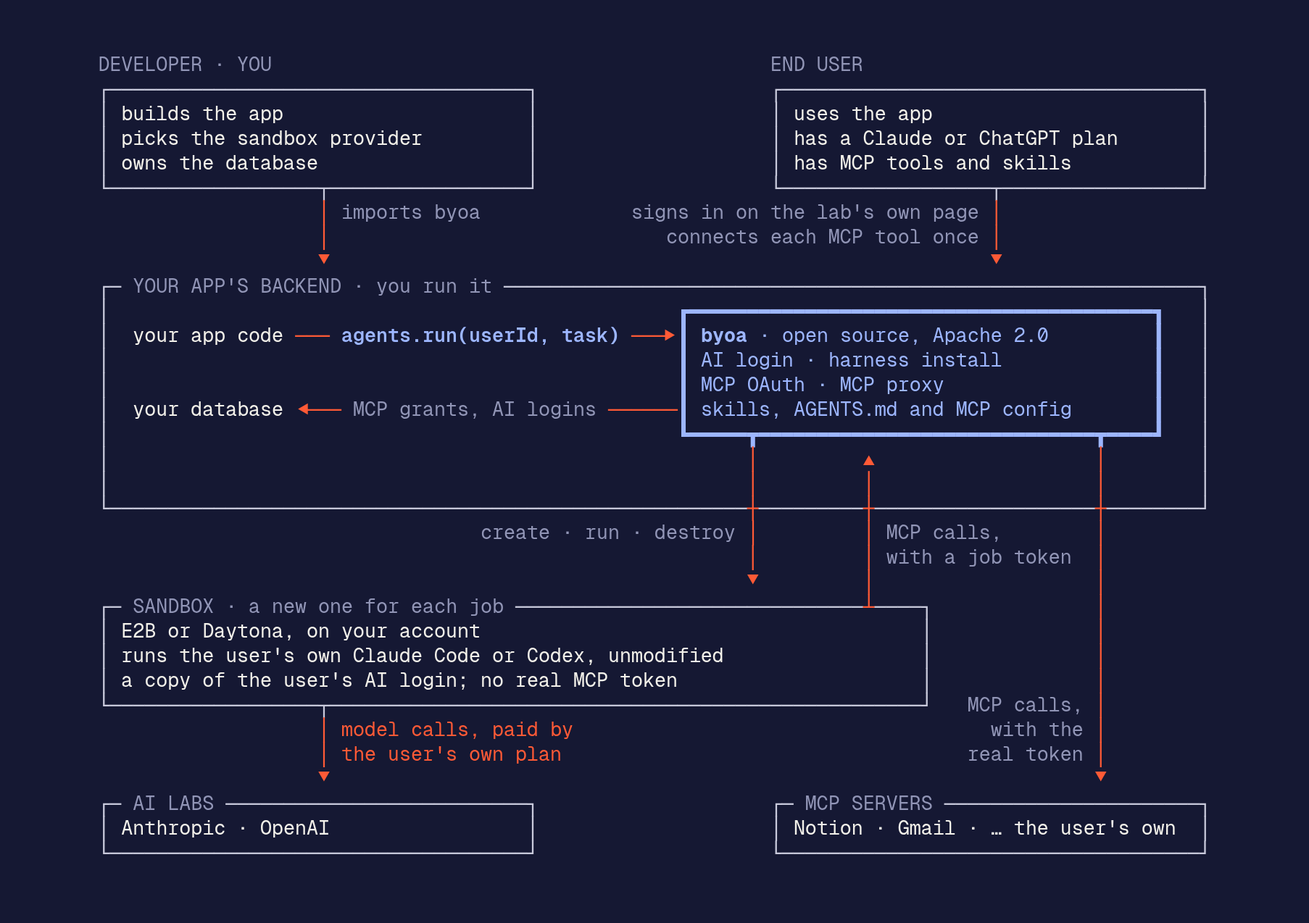
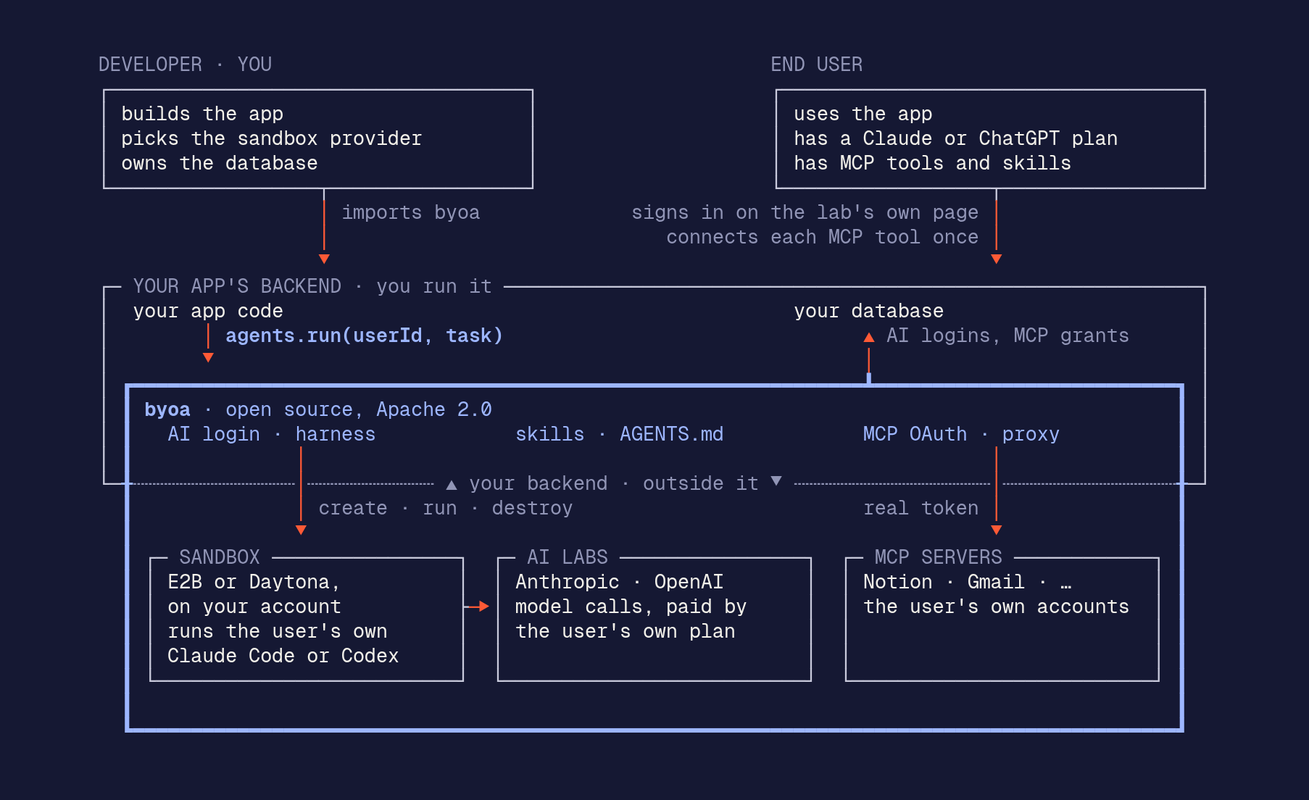
Who brings what: byoa's box encloses the sandbox, the AI labs and the MCP servers
The diagram now draws what byoa abstracts inside byoa's blue box. The bottom edge of the app's backend runs
through that box: byoa's own parts (AI login, harness, skills and config, MCP OAuth and proxy) sit above it,
in the backend, and the sandbox at E2B or Daytona, the AI labs and the user's MCP servers sit below it,
outside the backend, driven by byoa. The site, the README's text copy and its who-light/who-dark images
change together; nothing else on the page changes.

Amp-Thread-ID: https://ampcode.com/threads/T-01a2032a-9ddd-73ea-b81e-dd1ca577ce08

diff --git a/site/index.html b/site/index.html
@@ -417,7 +417,7 @@
     <div class="kick">Who brings what</div>
     <h2>Your app brings the product.<br>Each user brings the agent.</h2>
     <p class="sub">You build the app and pick the sandbox. Each user brings their plan and their tools. byoa runs inside your backend and runs each job in a new sandbox.</p>
-    <div class="ascii-wrap" role="img" aria-label="You, the developer, build the app, pick the sandbox provider and own the database. You import byoa into your app's backend. The end user uses the app, signs in with their own Claude or ChatGPT plan on the lab's page, and connects each MCP tool once. Your app code calls agents.run on byoa. byoa keeps the encrypted MCP grants and AI logins in your database. For each job, byoa creates a new sandbox at E2B or Daytona on your account, runs the user's own unmodified Claude Code or Codex there, and destroys it after the job. The sandbox gets a copy of the user's AI login and only a job token. Its model calls go to Anthropic or OpenAI, paid by the user's plan. Its MCP calls go to the byoa proxy, which adds the real token and sends them to the user's MCP servers.">
+    <div class="ascii-wrap" role="img" aria-label="You build the app and import byoa. Each user signs in with their own plan and connects their tools once. Your app code calls agents.run. byoa is a library inside your app&#x27;s backend, and keeps AI logins and MCP grants in your database. Below your backend&#x27;s edge, byoa drives three things that run outside it: a new sandbox for each job at E2B or Daytona on your account, where the user&#x27;s own Claude Code or Codex runs; the AI labs, whose model calls the user&#x27;s own plan pays; and the user&#x27;s MCP servers, which get the real token from byoa&#x27;s proxy.">
 <pre class="ascii wide" style="--cols:96" aria-hidden="true"><span class="l">DEVELOPER · YOU</span>                                           <span class="l">END USER</span>
 <span class="k">┌────────────────────────────────────┐</span>                    <span class="k">┌────────────────────────────────────┐</span>
 <span class="k">│</span> <span class="t">builds the app</span>                     <span class="k">│</span>                    <span class="k">│</span> <span class="t">uses the app</span>                       <span class="k">│</span>
@@ -428,29 +428,25 @@
                    <span class="c">│</span>                             <span class="m">connects each MCP tool once</span> <span class="c">│</span>
                    <span class="c">▼</span>                                                         <span class="c">▼</span>
 <span class="k">┌─</span><span class="l"> YOUR APP&#x27;S BACKEND · you run it </span><span class="k">────────────────────────────────────────────────────────────┐</span>
-<span class="k">│</span>                                                 <span class="o">┏━━━━━━━━━━━━━━━━━━━━━━━━━━━━━━━━━━━━━━━━┓</span>   <span class="k">│</span>
-<span class="k">│</span>  <span class="t">your app code</span> <span class="c">───</span><span class="x"> agents.run(userId, task) </span><span class="c">───▶</span><span class="o">┃</span> <span class="bn">byoa</span> <span class="bs">· open source, Apache 2.0</span>         <span class="o">┃</span>   <span class="k">│</span>
-<span class="k">│</span>                                                 <span class="o">┃</span> <span class="bs">AI login · harness install</span>             <span class="o">┃</span>   <span class="k">│</span>
-<span class="k">│</span>                                                 <span class="o">┃</span> <span class="bs">MCP OAuth · MCP proxy</span>                  <span class="o">┃</span>   <span class="k">│</span>
-<span class="k">│</span>  <span class="t">your database</span> <span class="c">◀───</span><span class="m"> MCP grants, AI logins </span><span class="c">──────</span><span class="o">┃</span> <span class="bs">skills, AGENTS.md and MCP config</span>       <span class="o">┃</span>   <span class="k">│</span>
-<span class="k">│</span>                                                 <span class="o">┗━━━━━┳━━━━━━━━━━━━━━━━━━━━━━━━━━━━━┳━━━━┛</span>   <span class="k">│</span>
-<span class="k">│</span>                                                       <span class="c">│</span>         <span class="c">▲</span>                   <span class="c">│</span>        <span class="k">│</span>
-<span class="k">│</span>                                                       <span class="c">│</span>         <span class="c">│</span>                   <span class="c">│</span>        <span class="k">│</span>
-<span class="k">└───────────────────────────────────────────────────────</span><span class="c">┼</span><span class="k">─────────</span><span class="c">┼</span><span class="k">───────────────────</span><span class="c">┼</span><span class="k">────────┘</span>
-                                 <span class="m">create · run · destroy</span> <span class="c">│</span>         <span class="c">│</span> <span class="m">MCP calls,</span>        <span class="c">│</span>
-                                                        <span class="c">│</span>         <span class="c">│</span> <span class="m">with a job token</span>  <span class="c">│</span>
-                                                        <span class="c">▼</span>         <span class="c">│</span>                   <span class="c">│</span>
-<span class="k">┌─</span><span class="l"> SANDBOX · a new one for each job </span><span class="k">──────────────────────────────</span><span class="c">┴</span><span class="k">────┐</span>              <span class="c">│</span>
-<span class="k">│</span> <span class="t">E2B or Daytona, on your account</span>                                      <span class="k">│</span>              <span class="c">│</span>
-<span class="k">│</span> <span class="t">runs the user&#x27;s own Claude Code or Codex, unmodified</span>                 <span class="k">│</span>              <span class="c">│</span>
-<span class="k">│</span> <span class="t">a copy of the user&#x27;s AI login; no real MCP token</span>                     <span class="k">│</span>              <span class="c">│</span>
-<span class="k">└──────────────────┬───────────────────────────────────────────────────┘</span>   <span class="m">MCP calls,</span> <span class="c">│</span>
-                   <span class="c">│</span> <span class="p">model calls, paid by</span>                                    <span class="m">with the</span> <span class="c">│</span>
-                   <span class="c">│</span> <span class="p">the user&#x27;s own plan</span>                                   <span class="m">real token</span> <span class="c">│</span>
-                   <span class="c">▼</span>                                                                  <span class="c">▼</span>
-<span class="k">┌─</span><span class="l"> AI LABS </span><span class="k">──────────────────────────┐</span>                    <span class="k">┌─</span><span class="l"> MCP SERVERS </span><span class="k">──────────────────────┐</span>
-<span class="k">│</span> <span class="t">Anthropic · OpenAI</span>                 <span class="k">│</span>                    <span class="k">│</span> <span class="t">Notion · Gmail · … the user&#x27;s own</span>  <span class="k">│</span>
-<span class="k">└────────────────────────────────────┘</span>                    <span class="k">└────────────────────────────────────┘</span></pre>
+<span class="k">│</span>  <span class="t">your app code</span>                                            <span class="t">your database</span>                      <span class="k">│</span>
+<span class="k">│</span>        <span class="c">│</span> <span class="x">agents.run(userId, task)</span>                               <span class="c">▲</span> <span class="m">AI logins, MCP grants</span>      <span class="k">│</span>
+<span class="k">│</span>        <span class="c">▼</span>                                                        <span class="c">│</span>                            <span class="k">│</span>
+<span class="k">│</span> <span class="o">┏━━━━━━━━━━━━━━━━━━━━━━━━━━━━━━━━━━━━━━━━━━━━━━━━━━━━━━━━━━━━━━━┻━━━━━━━━━━━━━━━━━━━━━━━━━━┓</span> <span class="k">│</span>
+<span class="k">│</span> <span class="o">┃</span> <span class="bn">byoa</span><span class="bs"> · open source, Apache 2.0</span>                                                           <span class="o">┃</span> <span class="k">│</span>
+<span class="k">│</span> <span class="o">┃</span>   <span class="bs">AI login · harness</span>            <span class="bs">skills · AGENTS.md</span>            <span class="bs">MCP OAuth · proxy</span>          <span class="o">┃</span> <span class="k">│</span>
+<span class="k">│</span> <span class="o">┃</span>              <span class="c">│</span>                                                           <span class="c">│</span>               <span class="o">┃</span> <span class="k">│</span>
+<span class="k">└─</span><span class="o">╂</span><span class="m">┄┄┄┄┄┄┄┄┄┄┄┄┄┄</span><span class="c">│</span><span class="m">┄┄┄┄┄┄┄┄┄┄┄</span><span class="l"> ▲ your backend · outside it ▼ </span><span class="m">┄┄┄┄┄┄┄┄┄┄┄┄┄┄┄┄┄</span><span class="c">│</span><span class="m">┄┄┄┄┄┄┄┄┄┄┄┄┄┄┄</span><span class="o">╂</span><span class="k">─┘</span>
+  <span class="o">┃</span>              <span class="c">│</span> <span class="m">create · run · destroy</span>                         <span class="m">real token</span> <span class="c">│</span>               <span class="o">┃</span>
+  <span class="o">┃</span>              <span class="c">▼</span>                                                           <span class="c">▼</span>               <span class="o">┃</span>
+  <span class="o">┃</span> <span class="k">┌─</span><span class="l"> SANDBOX </span><span class="k">────────────────┐</span>  <span class="k">┌─</span><span class="l"> AI LABS </span><span class="k">────────────────┐</span>  <span class="k">┌─</span><span class="l"> MCP SERVERS </span><span class="k">────────────┐</span> <span class="o">┃</span>
+  <span class="o">┃</span> <span class="k">│</span> <span class="t">E2B or Daytona,</span>          <span class="k">│</span>  <span class="k">│</span> <span class="t">Anthropic · OpenAI</span>       <span class="k">│</span>  <span class="k">│</span> <span class="t">Notion · Gmail · …</span>       <span class="k">│</span> <span class="o">┃</span>
+  <span class="o">┃</span> <span class="k">│</span> <span class="t">on your account</span>          <span class="k">├</span><span class="c">─▶</span><span class="k">│</span> <span class="t">model calls, paid by</span>     <span class="k">│</span>  <span class="k">│</span> <span class="t">the user&#x27;s own accounts</span>  <span class="k">│</span> <span class="o">┃</span>
+  <span class="o">┃</span> <span class="k">│</span> <span class="t">runs the user&#x27;s own</span>      <span class="k">│</span>  <span class="k">│</span> <span class="t">the user&#x27;s own plan</span>      <span class="k">│</span>  <span class="k">│</span>                          <span class="k">│</span> <span class="o">┃</span>
+  <span class="o">┃</span> <span class="k">│</span> <span class="t">Claude Code or Codex</span>     <span class="k">│</span>  <span class="k">│</span>                          <span class="k">│</span>  <span class="k">│</span>                          <span class="k">│</span> <span class="o">┃</span>
+  <span class="o">┃</span> <span class="k">└──────────────────────────┘</span>  <span class="k">└──────────────────────────┘</span>  <span class="k">└──────────────────────────┘</span> <span class="o">┃</span>
+  <span class="o">┃</span>                                                                                          <span class="o">┃</span>
+  <span class="o">┗━━━━━━━━━━━━━━━━━━━━━━━━━━━━━━━━━━━━━━━━━━━━━━━━━━━━━━━━━━━━━━━━━━━━━━━━━━━━━━━━━━━━━━━━━━┛</span>
+</pre>
 <pre class="ascii narrow" style="--cols:38" aria-hidden="true"><span class="l">DEVELOPER · YOU</span>
 <span class="k">┌────────────────────────────────────┐</span>
 <span class="k">│</span> <span class="t">builds the app</span>                     <span class="k">│</span>
@@ -469,33 +465,37 @@
   <span class="c">▼</span>                  <span class="c">▼</span>
 <span class="k">┌─</span><span class="l"> YOUR APP&#x27;S BACKEND </span><span class="k">───────────────┐</span>
 <span class="k">│</span> <span class="t">your app code</span>     <span class="t">your database</span>    <span class="k">│</span>
-<span class="k">│</span>    <span class="c">│</span> <span class="x">agents.run()</span>     <span class="c">▲</span>            <span class="k">│</span>
+<span class="k">│</span>    <span class="c">│</span> <span class="x">agents.run()</span>     <span class="c">▲</span> <span class="m">logins,</span>    <span class="k">│</span>
 <span class="k">│</span>    <span class="c">▼</span>                  <span class="c">│</span> <span class="m">grants</span>     <span class="k">│</span>
-<span class="k">│</span> <span class="o">┏━━━━━━━━━━━━━━━━━━━━━━━━━━━━┓</span>     <span class="k">│</span>
-<span class="k">│</span> <span class="o">┃</span> <span class="bn">byoa</span> <span class="bs">· open source</span>         <span class="o">┃</span>     <span class="k">│</span>
-<span class="k">│</span> <span class="o">┃</span> <span class="bs">AI login · MCP proxy</span>       <span class="o">┣</span><span class="c">───┐</span> <span class="k">│</span>
-<span class="k">│</span> <span class="o">┃</span> <span class="bs">harness · skills · config</span>  <span class="o">┃</span>   <span class="c">│</span> <span class="k">│</span>
-<span class="k">│</span> <span class="o">┗━━━┳━━━━━━━━━━━━━━━━━━━━━━━━┛</span>   <span class="c">│</span> <span class="k">│</span>
-<span class="k">│</span>     <span class="c">│</span>                     <span class="c">▲</span>      <span class="c">│</span> <span class="k">│</span>
-<span class="k">└─────</span><span class="c">┼</span><span class="k">─────────────────────</span><span class="c">┼</span><span class="k">──────</span><span class="c">┼</span><span class="k">─┘</span>
-      <span class="c">│</span> <span class="m">create · run</span>        <span class="c">│</span>      <span class="c">│</span>
-      <span class="c">│</span> <span class="m">· destroy</span>           <span class="c">│</span>      <span class="c">│</span>
-      <span class="c">▼</span>     <span class="m">MCP · job token</span> <span class="c">│</span>      <span class="c">│</span>
-<span class="k">┌─</span><span class="l"> SANDBOX · one per job </span><span class="k">───</span><span class="c">┴</span><span class="k">────┐</span> <span class="c">│</span>
-<span class="k">│</span> <span class="t">E2B or Daytona, your account</span>   <span class="k">│</span> <span class="c">│</span>
-<span class="k">│</span> <span class="t">the user&#x27;s own Claude Code</span>     <span class="k">│</span> <span class="c">│</span>
-<span class="k">│</span> <span class="t">or Codex, unmodified</span>           <span class="k">│</span> <span class="c">│</span>
-<span class="k">│</span> <span class="t">a copy of the user&#x27;s</span>           <span class="k">│</span> <span class="c">│</span>
-<span class="k">│</span> <span class="t">AI login, saved back</span>           <span class="k">│</span> <span class="c">│</span>
-<span class="k">│</span> <span class="t">no real MCP token here</span>         <span class="k">│</span> <span class="c">│</span>
-<span class="k">└─────┬──────────────────────────┘</span> <span class="c">│</span>
-      <span class="c">│</span> <span class="p">model calls, paid by</span>       <span class="c">│</span>
-      <span class="c">│</span> <span class="p">the user&#x27;s own plan</span>        <span class="c">│</span>
-      <span class="c">▼</span>                            <span class="c">▼</span>
-<span class="k">┌─</span><span class="l"> AI LABS </span><span class="k">──────┐</span>  <span class="k">┌─</span><span class="l"> MCP SERVERS </span><span class="k">──┐</span>
-<span class="k">│</span> <span class="t">Anthropic</span>      <span class="k">│</span>  <span class="k">│</span> <span class="t">Notion · Gmail</span> <span class="k">│</span>
-<span class="k">│</span> <span class="t">OpenAI</span>         <span class="k">│</span>  <span class="k">│</span> <span class="t">the user&#x27;s own</span> <span class="k">│</span>
-<span class="k">└────────────────┘</span>  <span class="k">└────────────────┘</span></pre>
+<span class="k">│</span> <span class="o">┏━━━━━━━━━━━━━━━━━━━━━┻━━━━━━━━━━┓</span> <span class="k">│</span>
+<span class="k">│</span> <span class="o">┃</span> <span class="bn">byoa</span><span class="bs"> · open source</span>             <span class="o">┃</span> <span class="k">│</span>
+<span class="k">│</span> <span class="o">┃</span> <span class="bs">AI login · MCP proxy</span>           <span class="o">┃</span> <span class="k">│</span>
+<span class="k">│</span> <span class="o">┃</span> <span class="bs">harness · skills · config</span>      <span class="o">┃</span> <span class="k">│</span>
+<span class="k">│</span> <span class="o">┃</span>   <span class="c">│</span>                         <span class="c">│</span>  <span class="o">┃</span> <span class="k">│</span>
+<span class="k">└─</span><span class="o">╂</span><span class="m">┄┄┄</span><span class="c">│</span><span class="m">┄┄</span><span class="l"> ▲ backend · outside ▼ </span><span class="c">│</span><span class="m">┄┄</span><span class="o">╂</span><span class="k">─┘</span>
+  <span class="o">┃</span>   <span class="c">│</span>              <span class="m">real token</span> <span class="c">│</span>  <span class="o">┃</span>
+  <span class="o">┃</span>   <span class="c">▼</span> <span class="m">runs each job</span>           <span class="c">│</span>  <span class="o">┃</span>
+  <span class="o">┃</span> <span class="k">┌─</span><span class="l"> SANDBOX </span><span class="k">────────────┐</span>    <span class="c">│</span>  <span class="o">┃</span>
+  <span class="o">┃</span> <span class="k">│</span> <span class="t">E2B or Daytona,</span>      <span class="k">│</span>    <span class="c">│</span>  <span class="o">┃</span>
+  <span class="o">┃</span> <span class="k">│</span> <span class="t">on your account</span>      <span class="k">│</span>    <span class="c">│</span>  <span class="o">┃</span>
+  <span class="o">┃</span> <span class="k">│</span> <span class="t">runs the user&#x27;s own</span>  <span class="k">│</span>    <span class="c">│</span>  <span class="o">┃</span>
+  <span class="o">┃</span> <span class="k">│</span> <span class="t">Claude Code or Codex</span> <span class="k">│</span>    <span class="c">│</span>  <span class="o">┃</span>
+  <span class="o">┃</span> <span class="k">└───┬──────────────────┘</span>    <span class="c">│</span>  <span class="o">┃</span>
+  <span class="o">┃</span>     <span class="c">│</span> <span class="m">model calls</span>           <span class="c">│</span>  <span class="o">┃</span>
+  <span class="o">┃</span>     <span class="c">▼</span>                       <span class="c">│</span>  <span class="o">┃</span>
+  <span class="o">┃</span> <span class="k">┌─</span><span class="l"> AI LABS </span><span class="k">────────────┐</span>    <span class="c">│</span>  <span class="o">┃</span>
+  <span class="o">┃</span> <span class="k">│</span> <span class="t">Anthropic · OpenAI</span>   <span class="k">│</span>    <span class="c">│</span>  <span class="o">┃</span>
+  <span class="o">┃</span> <span class="k">│</span> <span class="t">paid by the user&#x27;s</span>   <span class="k">│</span>    <span class="c">│</span>  <span class="o">┃</span>
+  <span class="o">┃</span> <span class="k">│</span> <span class="t">own plan</span>             <span class="k">│</span>    <span class="c">│</span>  <span class="o">┃</span>
+  <span class="o">┃</span> <span class="k">└──────────────────────┘</span>    <span class="c">│</span>  <span class="o">┃</span>
+  <span class="o">┃</span>                             <span class="c">│</span>  <span class="o">┃</span>
+  <span class="o">┃</span>                             <span class="c">▼</span>  <span class="o">┃</span>
+  <span class="o">┃</span> <span class="k">┌─</span><span class="l"> MCP SERVERS </span><span class="k">──────────────┐</span> <span class="o">┃</span>
+  <span class="o">┃</span> <span class="k">│</span> <span class="t">Notion · Gmail · …</span>         <span class="k">│</span> <span class="o">┃</span>
+  <span class="o">┃</span> <span class="k">│</span> <span class="t">the user&#x27;s own accounts</span>    <span class="k">│</span> <span class="o">┃</span>
+  <span class="o">┃</span> <span class="k">└────────────────────────────┘</span> <span class="o">┃</span>
+  <span class="o">┗━━━━━━━━━━━━━━━━━━━━━━━━━━━━━━━━┛</span>
+</pre>
     </div>
   </div>
 </section>

diff --git a/site/template.html b/site/template.html
@@ -417,7 +417,7 @@
     <div class="kick">Who brings what</div>
     <h2>Your app brings the product.<br>Each user brings the agent.</h2>
     <p class="sub">You build the app and pick the sandbox. Each user brings their plan and their tools. byoa runs inside your backend and runs each job in a new sandbox.</p>
-    <div class="ascii-wrap" role="img" aria-label="You, the developer, build the app, pick the sandbox provider and own the database. You import byoa into your app's backend. The end user uses the app, signs in with their own Claude or ChatGPT plan on the lab's page, and connects each MCP tool once. Your app code calls agents.run on byoa. byoa keeps the encrypted MCP grants and AI logins in your database. For each job, byoa creates a new sandbox at E2B or Daytona on your account, runs the user's own unmodified Claude Code or Codex there, and destroys it after the job. The sandbox gets a copy of the user's AI login and only a job token. Its model calls go to Anthropic or OpenAI, paid by the user's plan. Its MCP calls go to the byoa proxy, which adds the real token and sends them to the user's MCP servers.">
+    <div class="ascii-wrap" role="img" aria-label="You build the app and import byoa. Each user signs in with their own plan and connects their tools once. Your app code calls agents.run. byoa is a library inside your app&#x27;s backend, and keeps AI logins and MCP grants in your database. Below your backend&#x27;s edge, byoa drives three things that run outside it: a new sandbox for each job at E2B or Daytona on your account, where the user&#x27;s own Claude Code or Codex runs; the AI labs, whose model calls the user&#x27;s own plan pays; and the user&#x27;s MCP servers, which get the real token from byoa&#x27;s proxy.">
 <pre class="ascii wide" style="--cols:96" aria-hidden="true"><span class="l">DEVELOPER · YOU</span>                                           <span class="l">END USER</span>
 <span class="k">┌────────────────────────────────────┐</span>                    <span class="k">┌────────────────────────────────────┐</span>
 <span class="k">│</span> <span class="t">builds the app</span>                     <span class="k">│</span>                    <span class="k">│</span> <span class="t">uses the app</span>                       <span class="k">│</span>
@@ -428,29 +428,25 @@
                    <span class="c">│</span>                             <span class="m">connects each MCP tool once</span> <span class="c">│</span>
                    <span class="c">▼</span>                                                         <span class="c">▼</span>
 <span class="k">┌─</span><span class="l"> YOUR APP&#x27;S BACKEND · you run it </span><span class="k">────────────────────────────────────────────────────────────┐</span>
-<span class="k">│</span>                                                 <span class="o">┏━━━━━━━━━━━━━━━━━━━━━━━━━━━━━━━━━━━━━━━━┓</span>   <span class="k">│</span>
-<span class="k">│</span>  <span class="t">your app code</span> <span class="c">───</span><span class="x"> agents.run(userId, task) </span><span class="c">───▶</span><span class="o">┃</span> <span class="bn">byoa</span> <span class="bs">· open source, Apache 2.0</span>         <span class="o">┃</span>   <span class="k">│</span>
-<span class="k">│</span>                                                 <span class="o">┃</span> <span class="bs">AI login · harness install</span>             <span class="o">┃</span>   <span class="k">│</span>
-<span class="k">│</span>                                                 <span class="o">┃</span> <span class="bs">MCP OAuth · MCP proxy</span>                  <span class="o">┃</span>   <span class="k">│</span>
-<span class="k">│</span>  <span class="t">your database</span> <span class="c">◀───</span><span class="m"> MCP grants, AI logins </span><span class="c">──────</span><span class="o">┃</span> <span class="bs">skills, AGENTS.md and MCP config</span>       <span class="o">┃</span>   <span class="k">│</span>
-<span class="k">│</span>                                                 <span class="o">┗━━━━━┳━━━━━━━━━━━━━━━━━━━━━━━━━━━━━┳━━━━┛</span>   <span class="k">│</span>
-<span class="k">│</span>                                                       <span class="c">│</span>         <span class="c">▲</span>                   <span class="c">│</span>        <span class="k">│</span>
-<span class="k">│</span>                                                       <span class="c">│</span>         <span class="c">│</span>                   <span class="c">│</span>        <span class="k">│</span>
-<span class="k">└───────────────────────────────────────────────────────</span><span class="c">┼</span><span class="k">─────────</span><span class="c">┼</span><span class="k">───────────────────</span><span class="c">┼</span><span class="k">────────┘</span>
-                                 <span class="m">create · run · destroy</span> <span class="c">│</span>         <span class="c">│</span> <span class="m">MCP calls,</span>        <span class="c">│</span>
-                                                        <span class="c">│</span>         <span class="c">│</span> <span class="m">with a job token</span>  <span class="c">│</span>
-                                                        <span class="c">▼</span>         <span class="c">│</span>                   <span class="c">│</span>
-<span class="k">┌─</span><span class="l"> SANDBOX · a new one for each job </span><span class="k">──────────────────────────────</span><span class="c">┴</span><span class="k">────┐</span>              <span class="c">│</span>
-<span class="k">│</span> <span class="t">E2B or Daytona, on your account</span>                                      <span class="k">│</span>              <span class="c">│</span>
-<span class="k">│</span> <span class="t">runs the user&#x27;s own Claude Code or Codex, unmodified</span>                 <span class="k">│</span>              <span class="c">│</span>
-<span class="k">│</span> <span class="t">a copy of the user&#x27;s AI login; no real MCP token</span>                     <span class="k">│</span>              <span class="c">│</span>
-<span class="k">└──────────────────┬───────────────────────────────────────────────────┘</span>   <span class="m">MCP calls,</span> <span class="c">│</span>
-                   <span class="c">│</span> <span class="p">model calls, paid by</span>                                    <span class="m">with the</span> <span class="c">│</span>
-                   <span class="c">│</span> <span class="p">the user&#x27;s own plan</span>                                   <span class="m">real token</span> <span class="c">│</span>
-                   <span class="c">▼</span>                                                                  <span class="c">▼</span>
-<span class="k">┌─</span><span class="l"> AI LABS </span><span class="k">──────────────────────────┐</span>                    <span class="k">┌─</span><span class="l"> MCP SERVERS </span><span class="k">──────────────────────┐</span>
-<span class="k">│</span> <span class="t">Anthropic · OpenAI</span>                 <span class="k">│</span>                    <span class="k">│</span> <span class="t">Notion · Gmail · … the user&#x27;s own</span>  <span class="k">│</span>
-<span class="k">└────────────────────────────────────┘</span>                    <span class="k">└────────────────────────────────────┘</span></pre>
+<span class="k">│</span>  <span class="t">your app code</span>                                            <span class="t">your database</span>                      <span class="k">│</span>
+<span class="k">│</span>        <span class="c">│</span> <span class="x">agents.run(userId, task)</span>                               <span class="c">▲</span> <span class="m">AI logins, MCP grants</span>      <span class="k">│</span>
+<span class="k">│</span>        <span class="c">▼</span>                                                        <span class="c">│</span>                            <span class="k">│</span>
+<span class="k">│</span> <span class="o">┏━━━━━━━━━━━━━━━━━━━━━━━━━━━━━━━━━━━━━━━━━━━━━━━━━━━━━━━━━━━━━━━┻━━━━━━━━━━━━━━━━━━━━━━━━━━┓</span> <span class="k">│</span>
+<span class="k">│</span> <span class="o">┃</span> <span class="bn">byoa</span><span class="bs"> · open source, Apache 2.0</span>                                                           <span class="o">┃</span> <span class="k">│</span>
+<span class="k">│</span> <span class="o">┃</span>   <span class="bs">AI login · harness</span>            <span class="bs">skills · AGENTS.md</span>            <span class="bs">MCP OAuth · proxy</span>          <span class="o">┃</span> <span class="k">│</span>
+<span class="k">│</span> <span class="o">┃</span>              <span class="c">│</span>                                                           <span class="c">│</span>               <span class="o">┃</span> <span class="k">│</span>
+<span class="k">└─</span><span class="o">╂</span><span class="m">┄┄┄┄┄┄┄┄┄┄┄┄┄┄</span><span class="c">│</span><span class="m">┄┄┄┄┄┄┄┄┄┄┄</span><span class="l"> ▲ your backend · outside it ▼ </span><span class="m">┄┄┄┄┄┄┄┄┄┄┄┄┄┄┄┄┄</span><span class="c">│</span><span class="m">┄┄┄┄┄┄┄┄┄┄┄┄┄┄┄</span><span class="o">╂</span><span class="k">─┘</span>
+  <span class="o">┃</span>              <span class="c">│</span> <span class="m">create · run · destroy</span>                         <span class="m">real token</span> <span class="c">│</span>               <span class="o">┃</span>
+  <span class="o">┃</span>              <span class="c">▼</span>                                                           <span class="c">▼</span>               <span class="o">┃</span>
+  <span class="o">┃</span> <span class="k">┌─</span><span class="l"> SANDBOX </span><span class="k">────────────────┐</span>  <span class="k">┌─</span><span class="l"> AI LABS </span><span class="k">────────────────┐</span>  <span class="k">┌─</span><span class="l"> MCP SERVERS </span><span class="k">────────────┐</span> <span class="o">┃</span>
+  <span class="o">┃</span> <span class="k">│</span> <span class="t">E2B or Daytona,</span>          <span class="k">│</span>  <span class="k">│</span> <span class="t">Anthropic · OpenAI</span>       <span class="k">│</span>  <span class="k">│</span> <span class="t">Notion · Gmail · …</span>       <span class="k">│</span> <span class="o">┃</span>
+  <span class="o">┃</span> <span class="k">│</span> <span class="t">on your account</span>          <span class="k">├</span><span class="c">─▶</span><span class="k">│</span> <span class="t">model calls, paid by</span>     <span class="k">│</span>  <span class="k">│</span> <span class="t">the user&#x27;s own accounts</span>  <span class="k">│</span> <span class="o">┃</span>
+  <span class="o">┃</span> <span class="k">│</span> <span class="t">runs the user&#x27;s own</span>      <span class="k">│</span>  <span class="k">│</span> <span class="t">the user&#x27;s own plan</span>      <span class="k">│</span>  <span class="k">│</span>                          <span class="k">│</span> <span class="o">┃</span>
+  <span class="o">┃</span> <span class="k">│</span> <span class="t">Claude Code or Codex</span>     <span class="k">│</span>  <span class="k">│</span>                          <span class="k">│</span>  <span class="k">│</span>                          <span class="k">│</span> <span class="o">┃</span>
+  <span class="o">┃</span> <span class="k">└──────────────────────────┘</span>  <span class="k">└──────────────────────────┘</span>  <span class="k">└──────────────────────────┘</span> <span class="o">┃</span>
+  <span class="o">┃</span>                                                                                          <span class="o">┃</span>
+  <span class="o">┗━━━━━━━━━━━━━━━━━━━━━━━━━━━━━━━━━━━━━━━━━━━━━━━━━━━━━━━━━━━━━━━━━━━━━━━━━━━━━━━━━━━━━━━━━━┛</span>
+</pre>
 <pre class="ascii narrow" style="--cols:38" aria-hidden="true"><span class="l">DEVELOPER · YOU</span>
 <span class="k">┌────────────────────────────────────┐</span>
 <span class="k">│</span> <span class="t">builds the app</span>                     <span class="k">│</span>
@@ -469,33 +465,37 @@
   <span class="c">▼</span>                  <span class="c">▼</span>
 <span class="k">┌─</span><span class="l"> YOUR APP&#x27;S BACKEND </span><span class="k">───────────────┐</span>
 <span class="k">│</span> <span class="t">your app code</span>     <span class="t">your database</span>    <span class="k">│</span>
-<span class="k">│</span>    <span class="c">│</span> <span class="x">agents.run()</span>     <span class="c">▲</span>            <span class="k">│</span>
+<span class="k">│</span>    <span class="c">│</span> <span class="x">agents.run()</span>     <span class="c">▲</span> <span class="m">logins,</span>    <span class="k">│</span>
 <span class="k">│</span>    <span class="c">▼</span>                  <span class="c">│</span> <span class="m">grants</span>     <span class="k">│</span>
-<span class="k">│</span> <span class="o">┏━━━━━━━━━━━━━━━━━━━━━━━━━━━━┓</span>     <span class="k">│</span>
-<span class="k">│</span> <span class="o">┃</span> <span class="bn">byoa</span> <span class="bs">· open source</span>         <span class="o">┃</span>     <span class="k">│</span>
-<span class="k">│</span> <span class="o">┃</span> <span class="bs">AI login · MCP proxy</span>       <span class="o">┣</span><span class="c">───┐</span> <span class="k">│</span>
-<span class="k">│</span> <span class="o">┃</span> <span class="bs">harness · skills · config</span>  <span class="o">┃</span>   <span class="c">│</span> <span class="k">│</span>
-<span class="k">│</span> <span class="o">┗━━━┳━━━━━━━━━━━━━━━━━━━━━━━━┛</span>   <span class="c">│</span> <span class="k">│</span>
-<span class="k">│</span>     <span class="c">│</span>                     <span class="c">▲</span>      <span class="c">│</span> <span class="k">│</span>
-<span class="k">└─────</span><span class="c">┼</span><span class="k">─────────────────────</span><span class="c">┼</span><span class="k">──────</span><span class="c">┼</span><span class="k">─┘</span>
-      <span class="c">│</span> <span class="m">create · run</span>        <span class="c">│</span>      <span class="c">│</span>
-      <span class="c">│</span> <span class="m">· destroy</span>           <span class="c">│</span>      <span class="c">│</span>
-      <span class="c">▼</span>     <span class="m">MCP · job token</span> <span class="c">│</span>      <span class="c">│</span>
-<span class="k">┌─</span><span class="l"> SANDBOX · one per job </span><span class="k">───</span><span class="c">┴</span><span class="k">────┐</span> <span class="c">│</span>
-<span class="k">│</span> <span class="t">E2B or Daytona, your account</span>   <span class="k">│</span> <span class="c">│</span>
-<span class="k">│</span> <span class="t">the user&#x27;s own Claude Code</span>     <span class="k">│</span> <span class="c">│</span>
-<span class="k">│</span> <span class="t">or Codex, unmodified</span>           <span class="k">│</span> <span class="c">│</span>
-<span class="k">│</span> <span class="t">a copy of the user&#x27;s</span>           <span class="k">│</span> <span class="c">│</span>
-<span class="k">│</span> <span class="t">AI login, saved back</span>           <span class="k">│</span> <span class="c">│</span>
-<span class="k">│</span> <span class="t">no real MCP token here</span>         <span class="k">│</span> <span class="c">│</span>
-<span class="k">└─────┬──────────────────────────┘</span> <span class="c">│</span>
-      <span class="c">│</span> <span class="p">model calls, paid by</span>       <span class="c">│</span>
-      <span class="c">│</span> <span class="p">the user&#x27;s own plan</span>        <span class="c">│</span>
-      <span class="c">▼</span>                            <span class="c">▼</span>
-<span class="k">┌─</span><span class="l"> AI LABS </span><span class="k">──────┐</span>  <span class="k">┌─</span><span class="l"> MCP SERVERS </span><span class="k">──┐</span>
-<span class="k">│</span> <span class="t">Anthropic</span>      <span class="k">│</span>  <span class="k">│</span> <span class="t">Notion · Gmail</span> <span class="k">│</span>
-<span class="k">│</span> <span class="t">OpenAI</span>         <span class="k">│</span>  <span class="k">│</span> <span class="t">the user&#x27;s own</span> <span class="k">│</span>
-<span class="k">└────────────────┘</span>  <span class="k">└────────────────┘</span></pre>
+<span class="k">│</span> <span class="o">┏━━━━━━━━━━━━━━━━━━━━━┻━━━━━━━━━━┓</span> <span class="k">│</span>
+<span class="k">│</span> <span class="o">┃</span> <span class="bn">byoa</span><span class="bs"> · open source</span>             <span class="o">┃</span> <span class="k">│</span>
+<span class="k">│</span> <span class="o">┃</span> <span class="bs">AI login · MCP proxy</span>           <span class="o">┃</span> <span class="k">│</span>
+<span class="k">│</span> <span class="o">┃</span> <span class="bs">harness · skills · config</span>      <span class="o">┃</span> <span class="k">│</span>
+<span class="k">│</span> <span class="o">┃</span>   <span class="c">│</span>                         <span class="c">│</span>  <span class="o">┃</span> <span class="k">│</span>
+<span class="k">└─</span><span class="o">╂</span><span class="m">┄┄┄</span><span class="c">│</span><span class="m">┄┄</span><span class="l"> ▲ backend · outside ▼ </span><span class="c">│</span><span class="m">┄┄</span><span class="o">╂</span><span class="k">─┘</span>
+  <span class="o">┃</span>   <span class="c">│</span>              <span class="m">real token</span> <span class="c">│</span>  <span class="o">┃</span>
+  <span class="o">┃</span>   <span class="c">▼</span> <span class="m">runs each job</span>           <span class="c">│</span>  <span class="o">┃</span>
+  <span class="o">┃</span> <span class="k">┌─</span><span class="l"> SANDBOX </span><span class="k">────────────┐</span>    <span class="c">│</span>  <span class="o">┃</span>
+  <span class="o">┃</span> <span class="k">│</span> <span class="t">E2B or Daytona,</span>      <span class="k">│</span>    <span class="c">│</span>  <span class="o">┃</span>
+  <span class="o">┃</span> <span class="k">│</span> <span class="t">on your account</span>      <span class="k">│</span>    <span class="c">│</span>  <span class="o">┃</span>
+  <span class="o">┃</span> <span class="k">│</span> <span class="t">runs the user&#x27;s own</span>  <span class="k">│</span>    <span class="c">│</span>  <span class="o">┃</span>
+  <span class="o">┃</span> <span class="k">│</span> <span class="t">Claude Code or Codex</span> <span class="k">│</span>    <span class="c">│</span>  <span class="o">┃</span>
+  <span class="o">┃</span> <span class="k">└───┬──────────────────┘</span>    <span class="c">│</span>  <span class="o">┃</span>
+  <span class="o">┃</span>     <span class="c">│</span> <span class="m">model calls</span>           <span class="c">│</span>  <span class="o">┃</span>
+  <span class="o">┃</span>     <span class="c">▼</span>                       <span class="c">│</span>  <span class="o">┃</span>
+  <span class="o">┃</span> <span class="k">┌─</span><span class="l"> AI LABS </span><span class="k">────────────┐</span>    <span class="c">│</span>  <span class="o">┃</span>
+  <span class="o">┃</span> <span class="k">│</span> <span class="t">Anthropic · OpenAI</span>   <span class="k">│</span>    <span class="c">│</span>  <span class="o">┃</span>
+  <span class="o">┃</span> <span class="k">│</span> <span class="t">paid by the user&#x27;s</span>   <span class="k">│</span>    <span class="c">│</span>  <span class="o">┃</span>
+  <span class="o">┃</span> <span class="k">│</span> <span class="t">own plan</span>             <span class="k">│</span>    <span class="c">│</span>  <span class="o">┃</span>
+  <span class="o">┃</span> <span class="k">└──────────────────────┘</span>    <span class="c">│</span>  <span class="o">┃</span>
+  <span class="o">┃</span>                             <span class="c">│</span>  <span class="o">┃</span>
+  <span class="o">┃</span>                             <span class="c">▼</span>  <span class="o">┃</span>
+  <span class="o">┃</span> <span class="k">┌─</span><span class="l"> MCP SERVERS </span><span class="k">──────────────┐</span> <span class="o">┃</span>
+  <span class="o">┃</span> <span class="k">│</span> <span class="t">Notion · Gmail · …</span>         <span class="k">│</span> <span class="o">┃</span>
+  <span class="o">┃</span> <span class="k">│</span> <span class="t">the user&#x27;s own accounts</span>    <span class="k">│</span> <span class="o">┃</span>
+  <span class="o">┃</span> <span class="k">└────────────────────────────┘</span> <span class="o">┃</span>
+  <span class="o">┗━━━━━━━━━━━━━━━━━━━━━━━━━━━━━━━━┛</span>
+</pre>
     </div>
   </div>
 </section>

diff --git a/README.md b/README.md
@@ -29,7 +29,7 @@ Version 1 supports two sandbox providers: E2B and Daytona. More providers come l
 
 <picture>
   <source media="(prefers-color-scheme: dark)" srcset=".github/readme/who-dark.png">
-  <img alt="Who brings what: you, the developer, build the app, pick the sandbox provider and own the database, and import byoa into your app's backend. The end user uses the app, signs in on the lab's own page and connects each MCP tool once. byoa creates, runs and destroys a sandbox for each job; the sandbox runs the user's own Claude Code or Codex, makes model calls on the user's own plan, and sends MCP calls with a job token to byoa, which adds the real token." src=".github/readme/who-light.png">
+  <img alt="Who brings what: you, the developer, build the app, pick the sandbox provider and own the database, and import byoa into your app's backend. The end user uses the app, signs in on the lab's own page and connects each MCP tool once. Your app code calls agents.run on byoa, which keeps AI logins and MCP grants in your database. byoa's box reaches past your backend's edge: outside it, byoa creates, runs and destroys a sandbox for each job at E2B or Daytona on your account, where the user's own Claude Code or Codex runs; the AI labs get the model calls, paid by the user's own plan; and the user's MCP servers get the real token from byoa's proxy." src=".github/readme/who-light.png">
 </picture>
 
 <details>
@@ -46,29 +46,24 @@ DEVELOPER · YOU                                           END USER
                    │                             connects each MCP tool once │
                    ▼                                                         ▼
 ┌─ YOUR APP'S BACKEND · you run it ────────────────────────────────────────────────────────────┐
-│                                                 ┏━━━━━━━━━━━━━━━━━━━━━━━━━━━━━━━━━━━━━━━━┓   │
-│  your app code ─── agents.run(userId, task) ───▶┃ byoa · open source, Apache 2.0         ┃   │
-│                                                 ┃ AI login · harness install             ┃   │
-│                                                 ┃ MCP OAuth · MCP proxy                  ┃   │
-│  your database ◀─── MCP grants, AI logins ──────┃ skills, AGENTS.md and MCP config       ┃   │
-│                                                 ┗━━━━━┳━━━━━━━━━━━━━━━━━━━━━━━━━━━━━┳━━━━┛   │
-│                                                       │         ▲                   │        │
-│                                                       │         │                   │        │
-└───────────────────────────────────────────────────────┼─────────┼───────────────────┼────────┘
-                                 create · run · destroy │         │ MCP calls,        │
-                                                        │         │ with a job token  │
-                                                        ▼         │                   │
-┌─ SANDBOX · a new one for each job ──────────────────────────────┴────┐              │
-│ E2B or Daytona, on your account                                      │              │
-│ runs the user's own Claude Code or Codex, unmodified                 │              │
-│ a copy of the user's AI login; no real MCP token                     │              │
-└──────────────────┬───────────────────────────────────────────────────┘   MCP calls, │
-                   │ model calls, paid by                                    with the │
-                   │ the user's own plan                                   real token │
-                   ▼                                                                  ▼
-┌─ AI LABS ──────────────────────────┐                    ┌─ MCP SERVERS ──────────────────────┐
-│ Anthropic · OpenAI                 │                    │ Notion · Gmail · … the user's own  │
-└────────────────────────────────────┘                    └────────────────────────────────────┘
+│  your app code                                            your database                      │
+│        │ agents.run(userId, task)                               ▲ AI logins, MCP grants      │
+│        ▼                                                        │                            │
+│ ┏━━━━━━━━━━━━━━━━━━━━━━━━━━━━━━━━━━━━━━━━━━━━━━━━━━━━━━━━━━━━━━━┻━━━━━━━━━━━━━━━━━━━━━━━━━━┓ │
+│ ┃ byoa · open source, Apache 2.0                                                           ┃ │
+│ ┃   AI login · harness            skills · AGENTS.md            MCP OAuth · proxy          ┃ │
+│ ┃              │                                                           │               ┃ │
+└─╂┄┄┄┄┄┄┄┄┄┄┄┄┄┄│┄┄┄┄┄┄┄┄┄┄┄ ▲ your backend · outside it ▼ ┄┄┄┄┄┄┄┄┄┄┄┄┄┄┄┄┄│┄┄┄┄┄┄┄┄┄┄┄┄┄┄┄╂─┘
+  ┃              │ create · run · destroy                         real token │               ┃
+  ┃              ▼                                                           ▼               ┃
+  ┃ ┌─ SANDBOX ────────────────┐  ┌─ AI LABS ────────────────┐  ┌─ MCP SERVERS ────────────┐ ┃
+  ┃ │ E2B or Daytona,          │  │ Anthropic · OpenAI       │  │ Notion · Gmail · …       │ ┃
+  ┃ │ on your account          ├─▶│ model calls, paid by     │  │ the user's own accounts  │ ┃
+  ┃ │ runs the user's own      │  │ the user's own plan      │  │                          │ ┃
+  ┃ │ Claude Code or Codex     │  │                          │  │                          │ ┃
+  ┃ └──────────────────────────┘  └──────────────────────────┘  └──────────────────────────┘ ┃
+  ┃                                                                                          ┃
+  ┗━━━━━━━━━━━━━━━━━━━━━━━━━━━━━━━━━━━━━━━━━━━━━━━━━━━━━━━━━━━━━━━━━━━━━━━━━━━━━━━━━━━━━━━━━━┛
 ```
 
 </details>
